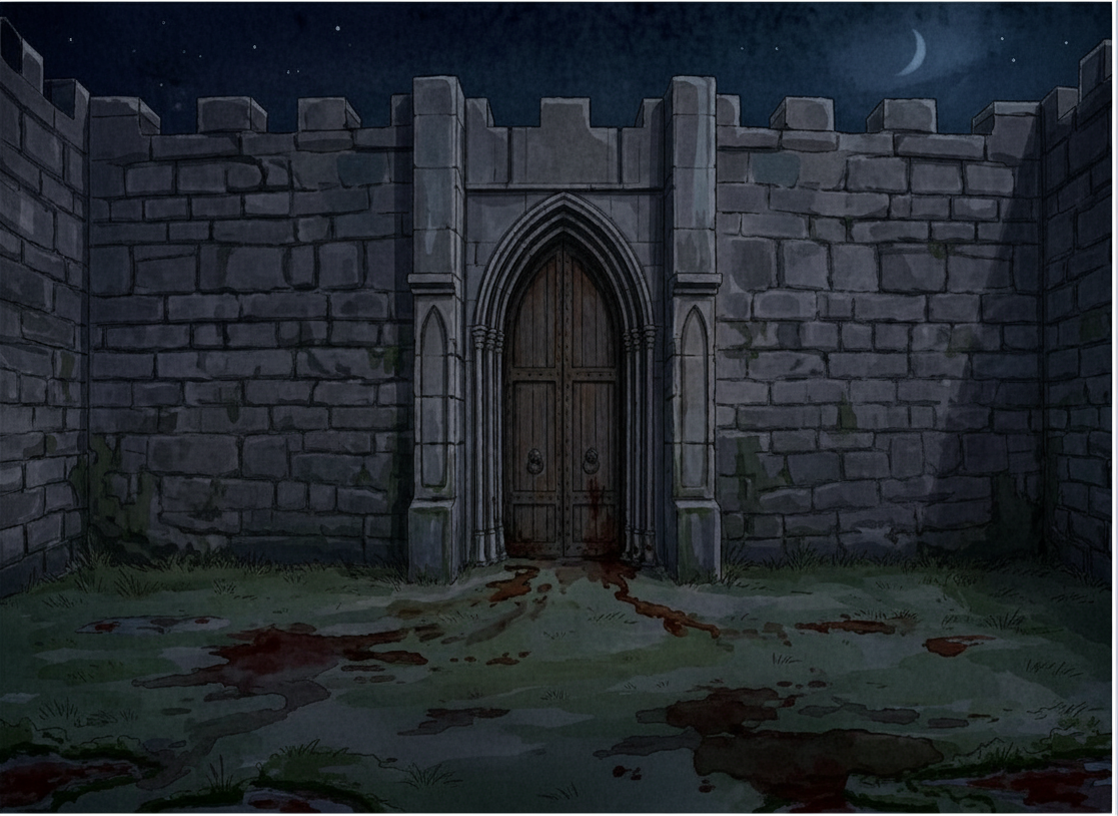
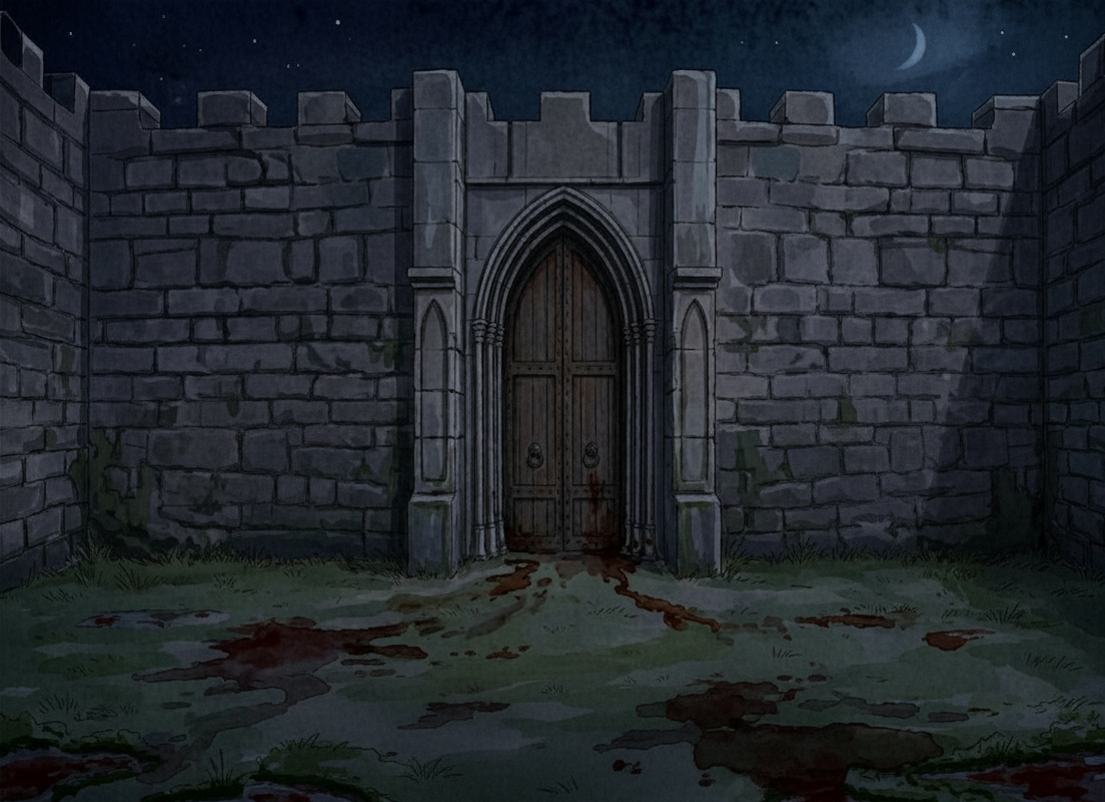
Added sprite movement and fixed sprite positioning and scaling

diff --git a/Videojuego/Game/battleScreen.js b/Videojuego/Game/battleScreen.js
@@ -55,7 +55,7 @@ export default class battleScreen extends Menus{
         this.enemies = []
         this.ParryBar = new ParryBar(this.canvasWidth, this.canvasHeight, playerData.stamina, playerData.maxStamina)
         this.playerMaker(playerData)
-        this.player.deckMaker(playerData.activeDeck, this.canvasWidth/2, 4*this.canvasHeight/5, 100*0.75, 100, 15)
+        this.player.deckMaker(playerData.activeDeck, this.canvasWidth/2, 4*this.canvasHeight/5 + 50, 100*0.75, 100, 15)
         this.enemyMaker(enemies, isBoss)
         // Enemy card drops (US: one card per defeated enemy). enemyMaker records the DB
         // id of every spawned enemy here because this.enemies is emptied by
@@ -143,11 +143,13 @@ export default class battleScreen extends Menus{
                             const dealt = this.applyEnemyDefense(enemy, damageDone, attackType)
                             enemy.health -= dealt
                             enemy.healthBar.calculateCurrentIndicatorSubstraction(dealt)
+                            enemy.shake()   // every enemy hit by the AOE recoils
                         }
                         this.player.stamina = this.player.stamina - card.staminaCost > 0 ? this.player.stamina - card.staminaCost : 0
                         this.player.staminaBar.calculateCurrentIndicatorSubstraction(card.staminaCost)
                         this.playSfx(card.action.sfxPath)
                         this.player.playState('attack')
+                        this.player.lunge(1)   // hop toward the enemies on the right
                         this.beginEnemyTurn()
                         return
                     }
@@ -181,6 +183,8 @@ export default class battleScreen extends Menus{
                 this.player.staminaBar.calculateCurrentIndicatorSubstraction(this.cardInAction.staminaCost)
                 this.playSfx(this.cardInAction.action.sfxPath)
                 this.player.playState('attack')
+                this.player.lunge(1)        // hop toward the enemies on the right
+                enemy.shake()               // the struck enemy recoils
                 this.cardInAction.y += 15
                 this.cardInAction = null
                 this.beginEnemyTurn()
@@ -227,6 +231,12 @@ export default class battleScreen extends Menus{
     }
     // Per-frame loop that detects end conditions and advances either the player or the enemy turn
     update(deltaTime){
+        // Advance the cosmetic lunge/shake offsets for everyone every frame, regardless of
+        // whose turn it is, so attack hops and hurt shakes play out smoothly to completion.
+        this.player.updateAnimation(deltaTime)
+        for(let enemy of this.enemies){
+            enemy.updateAnimation(deltaTime)
+        }
         if(this.parryLabelTimer > 0){
             this.parryLabelTimer -= deltaTime;
             if(this.parryLabelTimer <= 0){
@@ -436,9 +446,13 @@ export default class battleScreen extends Menus{
         const playerDef = (school === 'magic' ? this.player.magicDefense : this.player.physicalDefense) || 0
         const armoredDamage = this.currentDamage * DEFENSE_K / (DEFENSE_K + playerDef)
         const finalDamage = this.ParryBar.calculateDamagePlayer(this.player, armoredDamage)
+        // The attacker hops toward the player (left) at the moment of impact; the player only
+        // recoils if the hit actually landed (a perfect parry takes no damage = no shake).
+        if(this.enemyAttacking){ this.enemyAttacking.lunge(-1) }
         if(finalDamage > 0){
             this.player.health -= finalDamage
             this.player.healthBar.calculateCurrentIndicatorSubstraction(finalDamage)
+            this.player.shake()
         }
 
         const staminaChange = this.ParryBar.calculateStamina(this.player)
@@ -453,8 +467,10 @@ export default class battleScreen extends Menus{
         if (this.ParryBar.state === 'perfect') {
             this.playSfx('../Assets/Audio/SFX_dodge.mp3');
         }
-        // The attack has resolved — drop the attacker back to idle while the result label holds.
-        if(this.enemyAttacking){ this.enemyAttacking.playState('idle') }
+        // Keep the attacker in its ATTACK pose through the lunge + result-label hold, then
+        // revert to idle once the label clears (handled in update via pendingIdleEnemy). This
+        // way the lunge plays in the attack stance instead of snapping to idle first.
+        if(this.enemyAttacking){ this.pendingIdleEnemy = this.enemyAttacking }
 
         const labelData = { perfect: ['Perfect!', 'green'], normal: ['Good!', 'yellow'], miss: ['Miss!', 'red'] }
         const [text, color] = labelData[this.ParryBar.state] ?? labelData.miss
@@ -501,7 +517,7 @@ export default class battleScreen extends Menus{
     }
 
     playerMaker(playerData){
-        this.player = new Player(this.canvasWidth/5, this.canvasHeight/2 + 30, 180, 300, playerData.maxHealth, playerData.health, playerData.maxStamina, playerData.stamina, playerData.attributes, playerData.level, playerData.experience, playerData.experienceToNextLevel)
+        this.player = new Player(this.canvasWidth/5, this.canvasHeight/2 + 30, 150, 260, playerData.maxHealth, playerData.health, playerData.maxStamina, playerData.stamina, playerData.attributes, playerData.level, playerData.experience, playerData.experienceToNextLevel)
         this.player.setSpriteStates(playerSpriteStatesFor(playerData.archetype))
     }
 
@@ -518,21 +534,27 @@ export default class battleScreen extends Menus{
         this.spawnedEnemyIds = []
         // Every enemy is drawn at the same full size as a lone enemy — no shrinking when the
         // room is crowded (the attack/defend poses share this box, so they stay full size too).
-        const ENEMY_WIDTH = 200
-        const ENEMY_HEIGHT = 300
+        const ENEMY_WIDTH = 160
+        const ENEMY_HEIGHT = 260
+        // Floor 1 / room 1's background has a wall the topmost enemy of a diagonal lands on,
+        // which reads oddly. Nudge that room's enemies down a touch; every other room is fine.
+        const room = this.game?.currentRoom
+        const wallYOffset = (room?.floorNumber === 1 && room?.roomNumber === 1) ? 40 : 0
         let count = isBoss ? 1 : Math.floor(1 + Math.random() * 3);
         if(count > 1){
-            // Spread the group along a gentle downward diagonal on the right side. The
-            // outermost enemies are pinned just clear of the player (left) and the canvas
-            // edge (right); inner ones are spaced evenly between, so spacing tightens as the
-            // count grows. With the canvas only 800 wide a few may touch or slightly overlap,
-            // but the vertical stagger keeps them from sitting directly on top of each other.
-            const leftCenter = this.player.x + this.player.width/2 + ENEMY_WIDTH/2
-            const rightCenter = this.canvasWidth - ENEMY_WIDTH/2
-            const offSetX = (rightCenter - leftCenter) / (count - 1)
+            // Lay the group out CENTERED on the right side instead of pinning the outermost
+            // enemies to the player (left) and the canvas edge (right) — that left two enemies
+            // split awkwardly with one on top of the player and one on the far edge. Use a
+            // fixed spacing, clamped so the cluster always fits in the region between the
+            // player and the right edge, and center the row in that region. The diagonal is
+            // also centered vertically on the player's line so the cluster reads as a group.
+            const regionLeft = this.player.x + this.player.width/2 + ENEMY_WIDTH/2
+            const regionRight = this.canvasWidth - ENEMY_WIDTH/2
+            const regionCenter = (regionLeft + regionRight) / 2
+            const offSetX = Math.min(150, (regionRight - regionLeft) / (count - 1))
             const offSetY = 50
-            let positionX = leftCenter
-            let positionY = this.canvasHeight/2
+            let positionX = regionCenter - offSetX * (count - 1) / 2
+            let positionY = this.player.y - offSetY * (count - 1) / 2 + wallYOffset
             for(let i = 0; i < count; i++){
                 let enemyIndex = Math.floor(Math.random() * enemyData.length)
                 let datum = enemyData[enemyIndex]
@@ -545,7 +567,7 @@ export default class battleScreen extends Menus{
         else{
             let enemyIndex = Math.floor(Math.random() * enemyData.length)
             let datum = enemyData[enemyIndex]
-            this.enemies.push(this.makeEnemy(datum, 3*this.canvasWidth/4, this.player.y, ENEMY_WIDTH, ENEMY_HEIGHT))
+            this.enemies.push(this.makeEnemy(datum, 3*this.canvasWidth/4, this.player.y + wallYOffset, ENEMY_WIDTH, ENEMY_HEIGHT))
             this.spawnedEnemyIds.push(datum.id)
         }
     }

diff --git a/Videojuego/Game/Character.js b/Videojuego/Game/Character.js
@@ -26,6 +26,13 @@ export default class Character extends GameObject {
         // Combat pose state: idle by default, swapped to attack/defend during actions.
         this.spriteState = 'idle';
         this._spriteCache = {};
+        // Combat juice: a transient horizontal draw offset for the lunge (when attacking)
+        // and shake (when taking a hit). Driven by updateAnimation() each frame and applied
+        // in draw(); it never touches this.x/this.y, so targeting, enemy spacing and
+        // health-bar placement stay put.
+        this.animOffsetX = 0;
+        this._lungeTime = 0; this._lungeDuration = 0; this._lungeDir = 0; this._lungeDistance = 0;
+        this._shakeTime = 0; this._shakeDuration = 0; this._shakeMagnitude = 0;
     }
 
     // Preloads the idle/attack/defend art into cached Images and shows the idle pose.
@@ -59,6 +66,68 @@ export default class Character extends GameObject {
         if (!img) return;
         this.spriteImage = img;
         this.spriteState = this._spriteCache[state] ? state : 'idle';
+    }
+
+    // Draws the current pose at its NATIVE aspect ratio instead of stretching it to the
+    // fixed box. The box height (this.height) is the on-screen height every character shares;
+    // the drawn width follows each sprite's own proportions, so a wide attack/lunge pose no
+    // longer looks squished and a narrow character no longer looks "fat". The sprite is
+    // anchored at its feet (the bottom of the logical box) so poses don't bob or shift
+    // vertically when swapped. this.width/this.height stay the logical box used for targeting,
+    // spacing and health-bar placement.
+    draw(ctx) {
+        if (!this.spriteImage) return;
+        // Sprite-sheet cropping isn't aspect-correctable here; keep the base box-fill path.
+        if (this.spriteRect) { super.draw(ctx); return; }
+
+        const drawHeight = this.height * this.scale;
+        const feetY = this.y + (this.height / 2) * this.scale;   // constant ground line
+        const img = this.spriteImage;
+        // Before the image loads naturalHeight is 0; fall back to the logical box so the
+        // sprite doesn't vanish for the first frames.
+        const drawWidth = img.naturalHeight
+            ? drawHeight * (img.naturalWidth / img.naturalHeight)
+            : this.width * this.scale;
+
+        ctx.drawImage(img, (this.x + this.animOffsetX) - drawWidth / 2, feetY - drawHeight, drawWidth, drawHeight);
+    }
+
+    // Pokémon-style "step forward and back" when this character attacks. `direction` is the
+    // sign of the lunge along x (+1 toward the right, -1 toward the left); the sprite eases
+    // out to `distance` px and back to 0 over `duration` ms. Purely cosmetic (draw offset).
+    lunge(direction = 1, distance = 45, duration = 280) {
+        this._lungeDir = direction;
+        this._lungeDistance = distance;
+        this._lungeDuration = duration;
+        this._lungeTime = duration;
+    }
+
+    // Pokémon-style hurt shake: a fast horizontal wobble that decays to nothing over
+    // `duration` ms. Purely cosmetic (draw offset).
+    shake(magnitude = 12, duration = 350) {
+        this._shakeMagnitude = magnitude;
+        this._shakeDuration = duration;
+        this._shakeTime = duration;
+    }
+
+    // Advances the lunge/shake timers and recomputes the draw offset. Call every frame for
+    // the player and every enemy (battleScreen drives this regardless of whose turn it is)
+    // so the motion plays out smoothly.
+    updateAnimation(deltaTime) {
+        let offsetX = 0;
+        if (this._lungeTime > 0) {
+            this._lungeTime -= deltaTime;
+            // elapsed 0 -> 1; sin(pi * elapsed) gives a single forward-and-back hop.
+            const elapsed = 1 - Math.max(0, this._lungeTime) / this._lungeDuration;
+            offsetX += this._lungeDir * this._lungeDistance * Math.sin(Math.PI * elapsed);
+        }
+        if (this._shakeTime > 0) {
+            this._shakeTime -= deltaTime;
+            const remaining = Math.max(0, this._shakeTime) / this._shakeDuration;  // 1 -> 0
+            // Fast oscillation whose amplitude decays as the timer runs out.
+            offsetX += Math.sin(this._shakeTime / 30) * this._shakeMagnitude * remaining;
+        }
+        this.animOffsetX = offsetX;
     }
 
     isAlive() {
